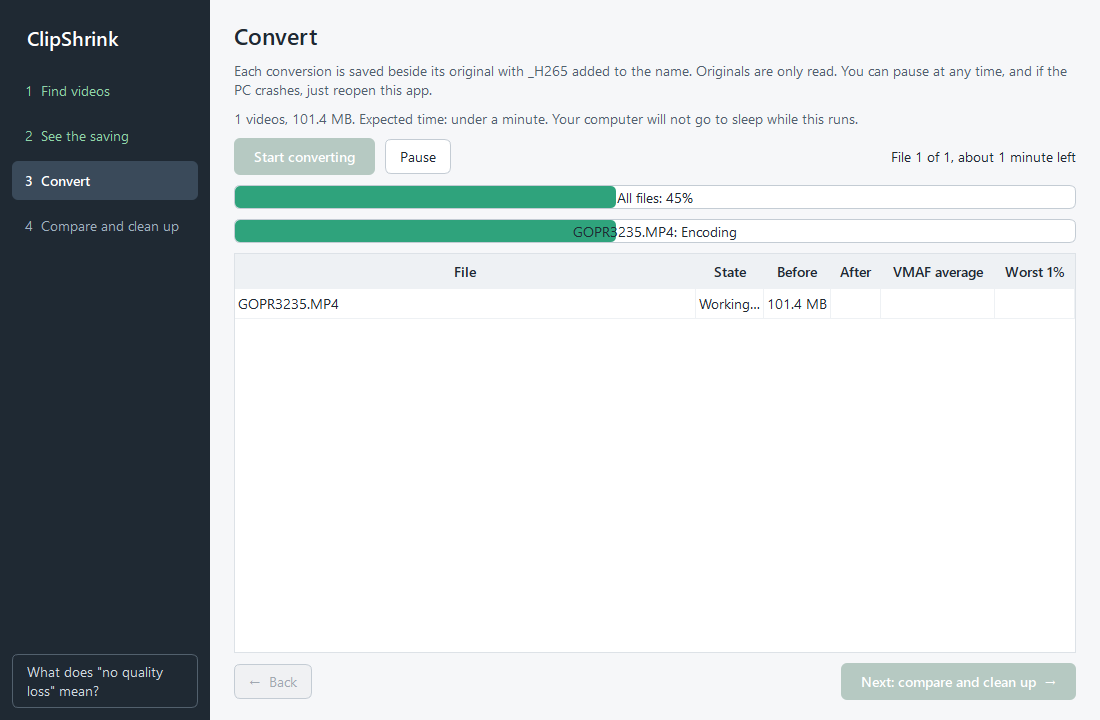
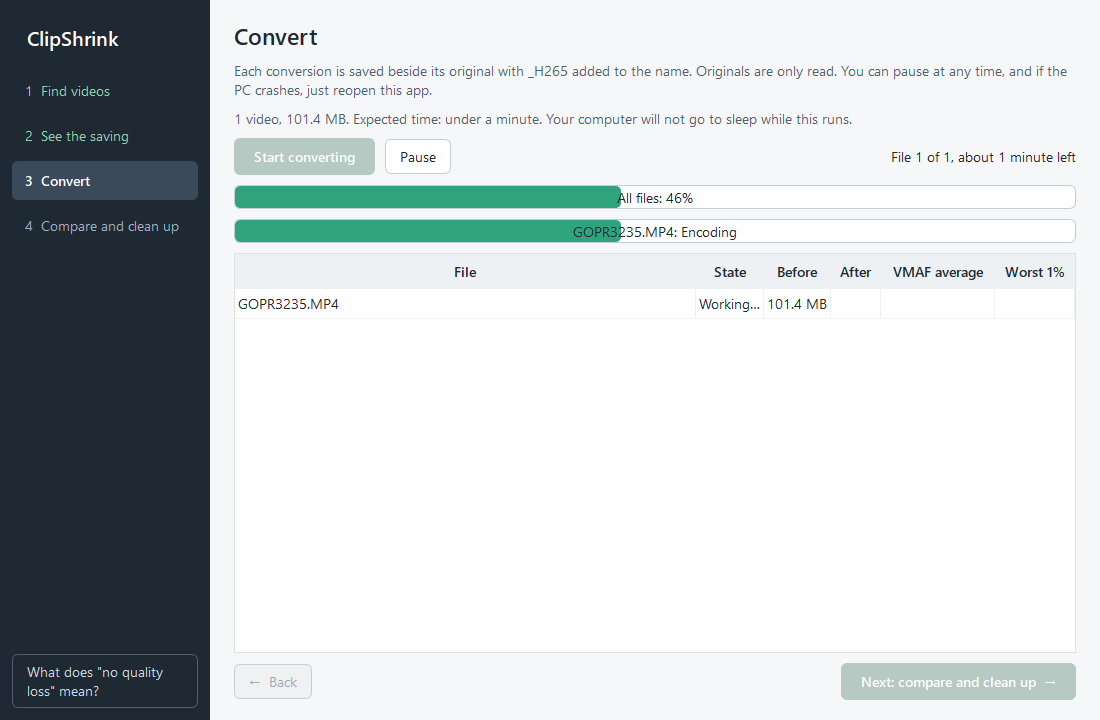
ClipShrink 1.2: wording for any H.264 video, cleaner player errors
The app now says videos rather than GoPro videos, and the Google Drive
warning applies only to videos stored in Drive. A stopped player raises
PlayerError instead of a raw OSError. Automatic tests get their own
download limit and leave out player tests, which still run in check.bat.

Changed region(s): [[0.2473, 0.1528, 0.7727, 0.1833], [0.5564, 0.3056, 0.5873, 0.3361]]

diff --git a/clipshrink/config.py b/clipshrink/config.py
@@ -1,6 +1,6 @@
 """Fixed rules of the tool. These numbers are the promise made to the user."""
 APP_NAME = "ClipShrink"
-VERSION = "1.1"
+VERSION = "1.2"
 VMAF_MEAN_MIN = 95.0     # average score over every frame
 VMAF_P1_MIN = 90.0       # the worst 1% of frames must still reach this
 SAMPLE_MARGIN = 0.5      # test encodes must clear the bar by this much
@@ -18,13 +18,13 @@ OUTPUT_SUFFIX = "_H265"
 QUALITY_EXPLANATION = (
     "What \"no quality loss\" means here\n\n"
     "Truly lossless H.265, where every pixel stays identical, usually makes files larger than your "
-    "GoPro originals, so it would cost you space instead of saving it. This tool uses a measured "
+    "the originals, so it would cost you space instead of saving it. This tool uses a measured "
     "definition instead.\n\n"
     "After each conversion it compares every frame with the original using VMAF, an open measure "
     "from Netflix of how a video looks to people, scored from 0 to 100. A conversion is accepted only "
     f"if the average score is at least {VMAF_MEAN_MIN:.0f} and the worst 1% of frames score at least "
     f"{VMAF_P1_MIN:.0f}, a level where differences are very hard to see.\n\n"
     "If a file misses that bar, or the result is not smaller, your original is simply kept and "
-    "the file is listed in the report. Sound, GoPro telemetry and capture dates are copied "
+    "the file is listed in the report. Sound, any GoPro telemetry and capture dates are copied "
     "unchanged, and originals are never touched during conversion."
 )

diff --git a/tests/test_interface.py b/tests/test_interface.py
@@ -199,7 +199,28 @@ def test_ticks_stay_on_the_right_files_with_skipped_rows_present(dark_review, wo
 def test_version_is_one_place_and_shown(window):
     from pathlib import Path
     from clipshrink import config
-    assert config.VERSION == "1.1"
+    assert config.VERSION == "1.2"
     assert config.VERSION in window.windowTitle()
     iss = (Path(__file__).resolve().parents[1] / "installer" / "clipshrink.iss").read_text(encoding="utf-8")
     assert f"AppVersion={config.VERSION}" in iss
+
+
+# --- ClipShrink is for any H.264 video, and saves disk space anywhere
+def test_wording_is_not_only_for_gopro(window):
+    from clipshrink import config, trash
+    title = window.windowTitle()
+    assert "GoPro" not in title and "videos" in title
+    assert "GoPro originals" not in config.QUALITY_EXPLANATION
+    assert "telemetry" in config.QUALITY_EXPLANATION, "must still promise telemetry is kept"
+    assert trash.GOOGLE_DRIVE_WARNING.startswith("If your videos are in Google Drive"), "only applies to Drive users"
+
+
+def test_one_video_is_singular(dark_review, workspace):
+    from clipshrink.estimate import Estimate
+    w = dark_review
+    _scan_page(w, workspace, ["a.mp4"], [])
+    w._estimate_done(Estimate(10, 5, 4, 6, 60.0, "x265", [], 1))
+    assert w.conv_info.text().startswith("1 video,")
+    _scan_page(w, workspace, ["a.mp4", "b.mp4"], [])
+    w._estimate_done(Estimate(20, 5, 4, 6, 60.0, "x265", [], 2))
+    assert w.conv_info.text().startswith("2 videos,")

diff --git a/tools/fetch_vendor.py b/tools/fetch_vendor.py
@@ -1,6 +1,6 @@
 """Downloads the two programs ClipShrink bundles (FFmpeg and mpv) into vendor/.
 They are not stored in this repository because of their size. Run by setup_dev.bat."""
-import json, shutil, subprocess, sys, tempfile, urllib.request
+import json, os, shutil, subprocess, sys, tempfile, urllib.request
 from pathlib import Path
 
 ROOT = Path(__file__).resolve().parents[1]
@@ -9,8 +9,10 @@ TAR = r"C:\Windows\System32\tar.exe"   # Windows' own tar also reads .zip and .7
 
 
 def latest_assets(repo):
-    req = urllib.request.Request(f"https://api.github.com/repos/{repo}/releases/latest",
-                                 headers={"User-Agent": "clipshrink-setup"})
+    headers = {"User-Agent": "clipshrink-setup"}
+    if os.environ.get("GITHUB_TOKEN"):      # automatic tests share an address, so need their own limit
+        headers["Authorization"] = f"Bearer {os.environ['GITHUB_TOKEN']}"
+    req = urllib.request.Request(f"https://api.github.com/repos/{repo}/releases/latest", headers=headers)
     with urllib.request.urlopen(req) as r:
         return json.load(r)["assets"]
 

diff --git a/clipshrink/ui.py b/clipshrink/ui.py
@@ -308,7 +308,7 @@ class MainWindow(QMainWindow):
         self.busy = False
         self.bridge = Bridge()
         self.bridge.call.connect(lambda fn: fn())
-        self.setWindowTitle(f"{config.APP_NAME} {config.VERSION}: shrink GoPro videos, keep the quality")
+        self.setWindowTitle(f"{config.APP_NAME} {config.VERSION}: shrink videos, keep the quality")
         self.resize(1080, 720)
         self.setStyleSheet(STYLE)
 
@@ -643,7 +643,7 @@ class MainWindow(QMainWindow):
                 self.est_table.setItem(i, c, cell(val))
         self.to_convert.setEnabled(True)
         self.start_btn.setEnabled(True)
-        self.conv_info.setText(f"{len(self.selected_files())} videos, {human_size(est.total_source_bytes)}. "
+        self.conv_info.setText(f"{len(self.selected_files())} video{'s' if len(self.selected_files()) != 1 else ''}, {human_size(est.total_source_bytes)}. "
                                f"Expected time: {human_time(est.seconds_estimate)}. Your computer will not go to sleep "
                                f"while this runs.")
 

diff --git a/clipshrink/player.py b/clipshrink/player.py
@@ -69,10 +69,16 @@ class SideBySidePlayer:
                 raise PlayerError("the video player is closed")
             self._req += 1
             rid = self._req
-            self._f.write((json.dumps({"command": list(args), "request_id": rid}) + "\n").encode())
             buf = b""
+            try:
+                self._f.write((json.dumps({"command": list(args), "request_id": rid}) + "\n").encode())
+            except OSError:
+                raise PlayerError("the video player stopped") from None
             while True:
-                c = self._f.read(4096)
+                try:
+                    c = self._f.read(4096)
+                except OSError:
+                    raise PlayerError("the video player stopped") from None
                 if not c:
                     raise PlayerError("the video player stopped")
                 buf += c

diff --git a/tests/test_player.py b/tests/test_player.py
@@ -60,3 +60,21 @@ def test_player_has_detail_mode(get_clip, workspace):
         assert shot.stat().st_size > 0
     finally:
         p.close()
+
+
+def test_player_stopping_is_reported_cleanly(get_clip):
+    """Seen on a machine where mpv stopped: this must be PlayerError, which the
+    window turns into a message, not a raw OSError."""
+    import pytest
+    from clipshrink.player import PlayerError, SideBySidePlayer
+    src = get_clip("no_audio_no_telemetry")
+    p = SideBySidePlayer(src, src, mute=True)
+    p.start()
+    try:
+        p.proc.kill()
+        p.proc.wait()
+        with pytest.raises(PlayerError):
+            for _ in range(5):
+                p.position()
+    finally:
+        p.close()

diff --git a/clipshrink/trash.py b/clipshrink/trash.py
@@ -7,7 +7,7 @@ from pathlib import Path
 from . import db, engine, scan
 
 GOOGLE_DRIVE_WARNING = (
-    "Google Drive keeps counting deleted files against your storage until they leave its trash. "
+    "If your videos are in Google Drive, it keeps counting deleted files against your storage until they leave its trash. "
     "To actually get the space back, also empty the trash at drive.google.com, or wait for Google to "
     "remove them after 30 days."
 )

diff --git a/docs/test-history.md b/docs/test-history.md
@@ -1,6 +1,6 @@
 # History of check runs
 
-Every completed full run while building version 1.1. Your own runs are logged to `docs/check_history.md`, which stays on your PC.
+Every completed full run while building versions 1.1 and 1.2. Your own runs are logged to `docs/check_history.md`, which stays on your PC.
 
 | When | Took | Tests | Passed | Failed | Skipped | Result | Note |
 |---|---|---|---|---|---|---|---|
@@ -9,3 +9,6 @@ Every completed full run while building version 1.1. Your own runs are logged to
 | 2026-11-05 22:01 | 8.5 min | 50 | 50 | 0 | 0 | PASS | after hand test: dark theme display, whole-cell ticks, remove _H265 |
 | 2026-11-05 22:21 | 8.8 min | 55 | 55 | 0 | 0 | PASS | version 1.1: H.265 files listed as skipped |
 | 2026-11-05 22:43 | 9.7 min | 55 | 55 | 0 | 0 | PASS | clean copy of the repo, set up from scratch |
+| 2026-11-05 22:21 | 8.8 min | 55 | 55 | 0 | 0 | PASS | version 1.1: H.265 files listed as skipped |
+| 2026-11-05 23:13 | 13.0 min | 57 | 57 | 0 | 0 | PASS | version 1.2: wording for any H.264 video |
+| 2026-11-05 23:27 | 13.7 min | 58 | 58 | 0 | 0 | PASS | version 1.2: player failure reported cleanly |

diff --git a/THIRD_PARTY_NOTICES.md b/THIRD_PARTY_NOTICES.md
@@ -12,7 +12,7 @@ The ClipShrink installer bundles the programs below. ClipShrink is released unde
 | [Python](https://www.python.org) | Runs the app | PSF | [Python source](https://www.python.org/downloads/source/) |
 | [PyInstaller](https://pyinstaller.org) | Packages the app | GPL 2 with bootloader exception | [PyInstaller source](https://github.com/pyinstaller/pyinstaller) |
 
-**Exact versions in release 1.1:**
+**Exact versions in release 1.2:**
 
 - FFmpeg `n8.1.3-34-ga35157abb9-20261105`
 - mpv `v0.42.0-1-g3138fc8ee`, built 2026-11-05

diff --git a/CHANGELOG.md b/CHANGELOG.md
@@ -1,5 +1,15 @@
 # Changelog
 
+## 1.2 - 2026-11-05
+
+### Changed
+- The app's wording now covers any H.264 video, not only GoPro files.
+- The Google Drive warning now says it applies only to videos stored in Drive.
+
+### Fixed
+- The Convert page no longer says "1 videos".
+- If the video player stops unexpectedly, the app now shows a message instead of an error crash.
+
 ## 1.1 - 2026-11-05
 
 First public release.
